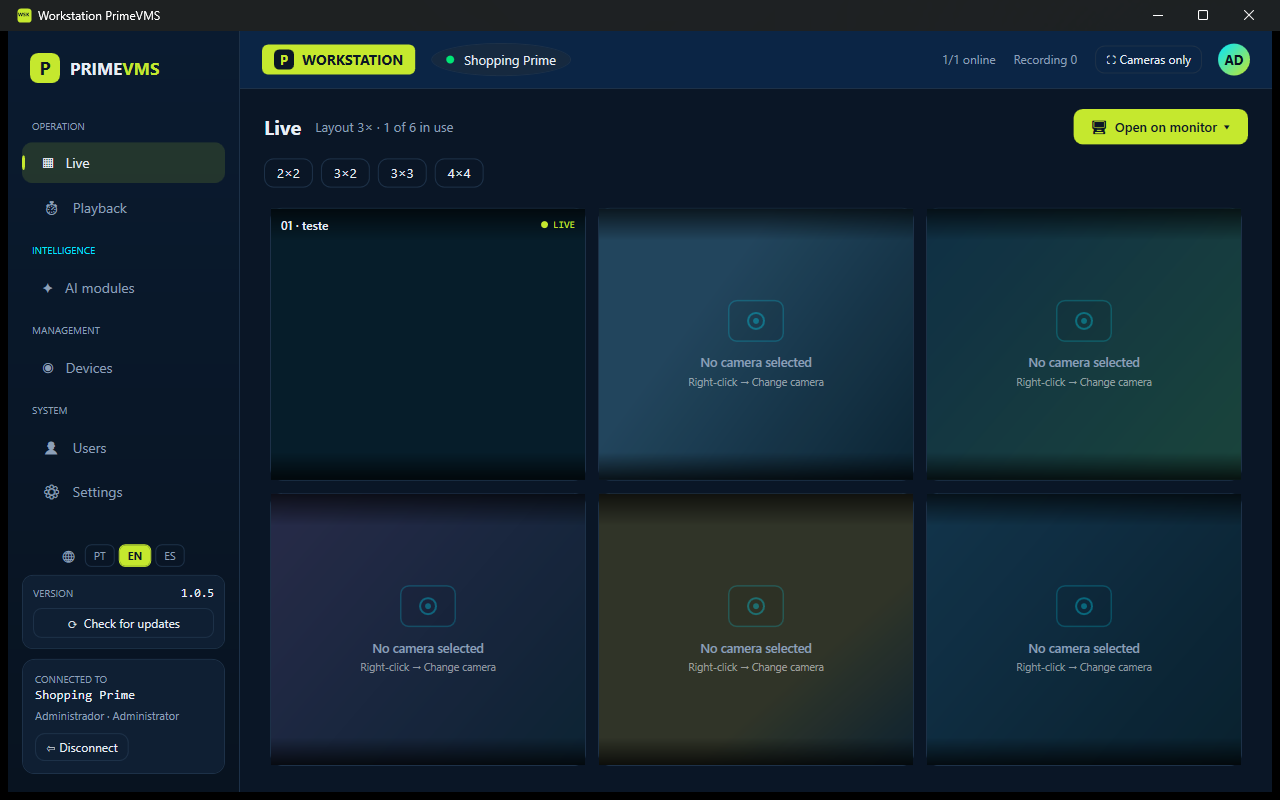
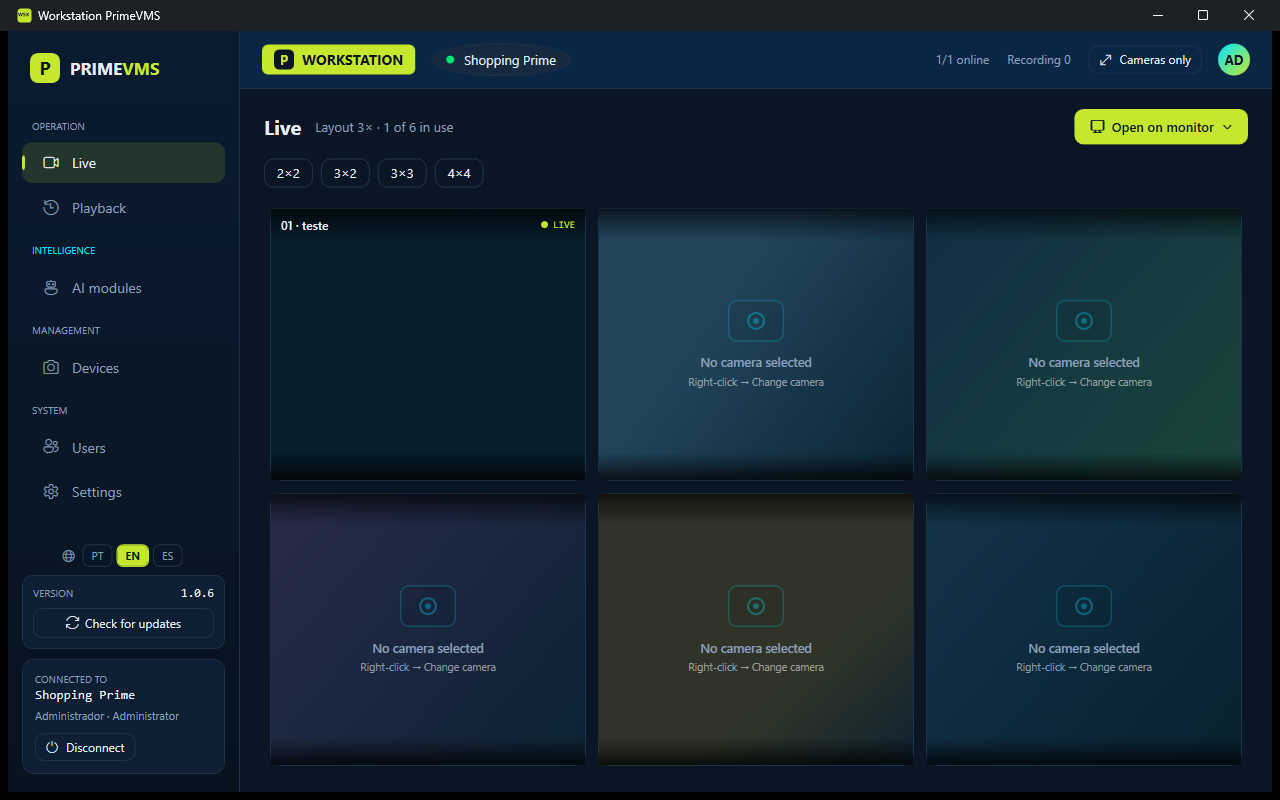
docs: versao 1.0.6 (tabela, SHA-256, site e capturas novas)

diff --git a/docs/es/index.html b/docs/es/index.html
@@ -32,7 +32,7 @@
   "applicationCategory": "SecurityApplication",
   "applicationSubCategory": "Software de gestión de video (VMS)",
   "operatingSystem": "Windows 10, Windows 11",
-  "softwareVersion": "1.0.5",
+  "softwareVersion": "1.0.6",
   "inLanguage": ["es", "en", "pt-BR"],
   "downloadUrl": "https://github.com/Daniel1ux/Prime-VMS-Public/releases/latest",
   "url": "https://daniel1ux.github.io/Prime-VMS-Public/es/",
@@ -77,12 +77,12 @@
     <div class="cta">
       <a class="btn btn-primary" href="https://github.com/Daniel1ux/Prime-VMS-Public/releases/latest"><svg viewBox="0 0 24 24" aria-hidden="true"><path d="M12 4v11M7 10l5 5 5-5M5 20h14"/></svg>Descargar para Windows</a>
       <a class="btn btn-ghost" href="#planes">Ver planes</a>
-      <small>Versión 1.0.5 · Windows 10 y 11, 64 bits · Español, English, Português</small>
+      <small>Versión 1.0.6 · Windows 10 y 11, 64 bits · Español, English, Português</small>
     </div>
     <div class="trust">
       <span>Sin licencia por cámara</span><span>Cualquier cámara ONVIF o RTSP</span><span>Actualización desde la app</span><span>Una PC o distribuido</span>
     </div>
-    <img class="shot" src="../assets/workstation-es.png" width="1280" height="800" alt="Workstation de PrimeVMS con un mosaico en vivo de cámaras IP">
+    <img class="shot" src="../assets/workstation-es.png" width="1280" height="890" alt="Workstation de PrimeVMS con un mosaico en vivo de cámaras IP">
   </div>
 </div>
 

diff --git a/docs/pt/index.html b/docs/pt/index.html
@@ -32,7 +32,7 @@
   "applicationCategory": "SecurityApplication",
   "applicationSubCategory": "Software de gerenciamento de vídeo (VMS)",
   "operatingSystem": "Windows 10, Windows 11",
-  "softwareVersion": "1.0.5",
+  "softwareVersion": "1.0.6",
   "inLanguage": ["pt-BR", "en", "es"],
   "downloadUrl": "https://github.com/Daniel1ux/Prime-VMS-Public/releases/latest",
   "url": "https://daniel1ux.github.io/Prime-VMS-Public/pt/",
@@ -77,12 +77,12 @@
     <div class="cta">
       <a class="btn btn-primary" href="https://github.com/Daniel1ux/Prime-VMS-Public/releases/latest"><svg viewBox="0 0 24 24" aria-hidden="true"><path d="M12 4v11M7 10l5 5 5-5M5 20h14"/></svg>Baixar para Windows</a>
       <a class="btn btn-ghost" href="#planos">Ver planos</a>
-      <small>Versão 1.0.5 · Windows 10 e 11, 64 bits · Português, English, Español</small>
+      <small>Versão 1.0.6 · Windows 10 e 11, 64 bits · Português, English, Español</small>
     </div>
     <div class="trust">
       <span>Sem licença por câmera</span><span>Qualquer câmera ONVIF ou RTSP</span><span>Atualização pelo app</span><span>Um PC ou distribuído</span>
     </div>
-    <img class="shot" src="../assets/workstation-pt.png" width="1280" height="800" alt="Workstation do PrimeVMS com mosaico ao vivo de câmeras IP">
+    <img class="shot" src="../assets/workstation-pt.png" width="1280" height="890" alt="Workstation do PrimeVMS com mosaico ao vivo de câmeras IP">
   </div>
 </div>
 

diff --git a/docs/index.html b/docs/index.html
@@ -32,7 +32,7 @@
   "applicationCategory": "SecurityApplication",
   "applicationSubCategory": "Video management software (VMS)",
   "operatingSystem": "Windows 10, Windows 11",
-  "softwareVersion": "1.0.5",
+  "softwareVersion": "1.0.6",
   "inLanguage": ["en", "pt-BR", "es"],
   "downloadUrl": "https://github.com/Daniel1ux/Prime-VMS-Public/releases/latest",
   "url": "https://daniel1ux.github.io/Prime-VMS-Public/",
@@ -77,12 +77,12 @@
     <div class="cta">
       <a class="btn btn-primary" href="https://github.com/Daniel1ux/Prime-VMS-Public/releases/latest"><svg viewBox="0 0 24 24" aria-hidden="true"><path d="M12 4v11M7 10l5 5 5-5M5 20h14"/></svg>Download for Windows</a>
       <a class="btn btn-ghost" href="#pricing">View plans</a>
-      <small>Version 1.0.5 · Windows 10 and 11, 64-bit · English, Português, Español</small>
+      <small>Version 1.0.6 · Windows 10 and 11, 64-bit · English, Português, Español</small>
     </div>
     <div class="trust">
       <span>No per-camera license</span><span>Any ONVIF or RTSP camera</span><span>Updates from the app</span><span>Single PC or distributed</span>
     </div>
-    <img class="shot" src="assets/workstation-en.png" width="1280" height="800" alt="PrimeVMS Workstation with a live view layout of IP cameras">
+    <img class="shot" src="assets/workstation-en.png" width="1280" height="890" alt="PrimeVMS Workstation with a live view layout of IP cameras">
   </div>
 </div>
 

diff --git a/README.es.md b/README.es.md
@@ -147,9 +147,10 @@ administrador:
 
 | Versión | Fecha | Instalador | Actualización en la app |
 |---|---|---|---|
-| [1.0.5](https://github.com/Daniel1ux/Prime-VMS-Public/releases/tag/v1.0.5) (recomendada) | 18/10/2026 | `PrimeVMS-Setup-1.0.5.exe`, 315 MB | Sí |
+| [1.0.6](https://github.com/Daniel1ux/Prime-VMS-Public/releases/tag/v1.0.6) (recomendada) | 18/10/2026 | `PrimeVMS-Setup-1.0.6.exe`, 315 MB | Sí |
+| [1.0.5](https://github.com/Daniel1ux/Prime-VMS-Public/releases/tag/v1.0.5) | 18/10/2026 | `PrimeVMS-Setup-1.0.5.exe`, 315 MB | Sí |
 | [1.0.4](https://github.com/Daniel1ux/Prime-VMS-Public/releases/tag/v1.0.4) | 18/10/2026 | `PrimeVMS-Setup-1.0.4.exe`, 314 MB | Sí |
-| [1.0.3](https://github.com/Daniel1ux/Prime-VMS-Public/releases/tag/v1.0.3) | 17/10/2026 | `PrimeVMS-Setup-1.0.3.exe`, 314 MB | No (instale la 1.0.5) |
+| [1.0.3](https://github.com/Daniel1ux/Prime-VMS-Public/releases/tag/v1.0.3) | 17/10/2026 | `PrimeVMS-Setup-1.0.3.exe`, 314 MB | No (instale la 1.0.6) |
 | [1.0.2](https://github.com/Daniel1ux/Prime-VMS-Public/releases/tag/v1.0.2) | 06/06/2026 | `PrimeVMS-Setup-1.0.2.exe`, 424 MB | No |
 | [1.0.0](https://github.com/Daniel1ux/Prime-VMS-Public/releases/tag/v1.0.0) | 01/06/2026 | `PrimeVMS-Setup-1.0.0.exe`, 265 MB | No |
 
@@ -160,11 +161,12 @@ conservan y las versiones siguientes se actualizan desde la aplicación.
 ### Verificar la descarga
 
 ```powershell
-Get-FileHash .\PrimeVMS-Setup-1.0.5.exe -Algorithm SHA256
+Get-FileHash .\PrimeVMS-Setup-1.0.6.exe -Algorithm SHA256
 ```
 
 | Archivo | SHA-256 |
 |---|---|
[4 lines of base64/hex data omitted]

diff --git a/README.pt-BR.md b/README.pt-BR.md
@@ -142,9 +142,10 @@ administrador:
 
 | Versão | Data | Instalador | Atualização pelo app |
 |---|---|---|---|
-| [1.0.5](https://github.com/Daniel1ux/Prime-VMS-Public/releases/tag/v1.0.5) (recomendada) | 18/10/2026 | `PrimeVMS-Setup-1.0.5.exe`, 315 MB | Sim |
+| [1.0.6](https://github.com/Daniel1ux/Prime-VMS-Public/releases/tag/v1.0.6) (recomendada) | 18/10/2026 | `PrimeVMS-Setup-1.0.6.exe`, 315 MB | Sim |
+| [1.0.5](https://github.com/Daniel1ux/Prime-VMS-Public/releases/tag/v1.0.5) | 18/10/2026 | `PrimeVMS-Setup-1.0.5.exe`, 315 MB | Sim |
 | [1.0.4](https://github.com/Daniel1ux/Prime-VMS-Public/releases/tag/v1.0.4) | 18/10/2026 | `PrimeVMS-Setup-1.0.4.exe`, 314 MB | Sim |
-| [1.0.3](https://github.com/Daniel1ux/Prime-VMS-Public/releases/tag/v1.0.3) | 17/10/2026 | `PrimeVMS-Setup-1.0.3.exe`, 314 MB | Não (instale a 1.0.5) |
+| [1.0.3](https://github.com/Daniel1ux/Prime-VMS-Public/releases/tag/v1.0.3) | 17/10/2026 | `PrimeVMS-Setup-1.0.3.exe`, 314 MB | Não (instale a 1.0.6) |
 | [1.0.2](https://github.com/Daniel1ux/Prime-VMS-Public/releases/tag/v1.0.2) | 06/06/2026 | `PrimeVMS-Setup-1.0.2.exe`, 424 MB | Não |
 | [1.0.0](https://github.com/Daniel1ux/Prime-VMS-Public/releases/tag/v1.0.0) | 01/06/2026 | `PrimeVMS-Setup-1.0.0.exe`, 265 MB | Não |
 
@@ -155,11 +156,12 @@ mantidos e as versões seguintes são atualizadas pelo app.
 ### Conferir o download
 
 ```powershell
-Get-FileHash .\PrimeVMS-Setup-1.0.5.exe -Algorithm SHA256
+Get-FileHash .\PrimeVMS-Setup-1.0.6.exe -Algorithm SHA256
 ```
 
 | Arquivo | SHA-256 |
 |---|---|
[4 lines of base64/hex data omitted]

diff --git a/README.md b/README.md
@@ -139,9 +139,10 @@ and the `pack-*.zip` files) to a folder, then run as administrator:
 
 | Version | Date | Installer | In-app updates |
 |---|---|---|---|
-| [1.0.5](https://github.com/Daniel1ux/Prime-VMS-Public/releases/tag/v1.0.5) (recommended) | 2026-10-18 | `PrimeVMS-Setup-1.0.5.exe`, 315 MB | Yes |
+| [1.0.6](https://github.com/Daniel1ux/Prime-VMS-Public/releases/tag/v1.0.6) (recommended) | 2026-10-18 | `PrimeVMS-Setup-1.0.6.exe`, 315 MB | Yes |
+| [1.0.5](https://github.com/Daniel1ux/Prime-VMS-Public/releases/tag/v1.0.5) | 2026-10-18 | `PrimeVMS-Setup-1.0.5.exe`, 315 MB | Yes |
 | [1.0.4](https://github.com/Daniel1ux/Prime-VMS-Public/releases/tag/v1.0.4) | 2026-10-18 | `PrimeVMS-Setup-1.0.4.exe`, 314 MB | Yes |
-| [1.0.3](https://github.com/Daniel1ux/Prime-VMS-Public/releases/tag/v1.0.3) | 2026-10-17 | `PrimeVMS-Setup-1.0.3.exe`, 314 MB | No (install 1.0.5) |
+| [1.0.3](https://github.com/Daniel1ux/Prime-VMS-Public/releases/tag/v1.0.3) | 2026-10-17 | `PrimeVMS-Setup-1.0.3.exe`, 314 MB | No (install 1.0.6) |
 | [1.0.2](https://github.com/Daniel1ux/Prime-VMS-Public/releases/tag/v1.0.2) | 2026-06-06 | `PrimeVMS-Setup-1.0.2.exe`, 424 MB | No |
 | [1.0.0](https://github.com/Daniel1ux/Prime-VMS-Public/releases/tag/v1.0.0) | 2026-06-01 | `PrimeVMS-Setup-1.0.0.exe`, 265 MB | No |
 
@@ -152,11 +153,12 @@ update from inside the app.
 ### Verify the download
 
 ```powershell
-Get-FileHash .\PrimeVMS-Setup-1.0.5.exe -Algorithm SHA256
+Get-FileHash .\PrimeVMS-Setup-1.0.6.exe -Algorithm SHA256
 ```
 
 | File | SHA-256 |
 |---|---|
[4 lines of base64/hex data omitted]
